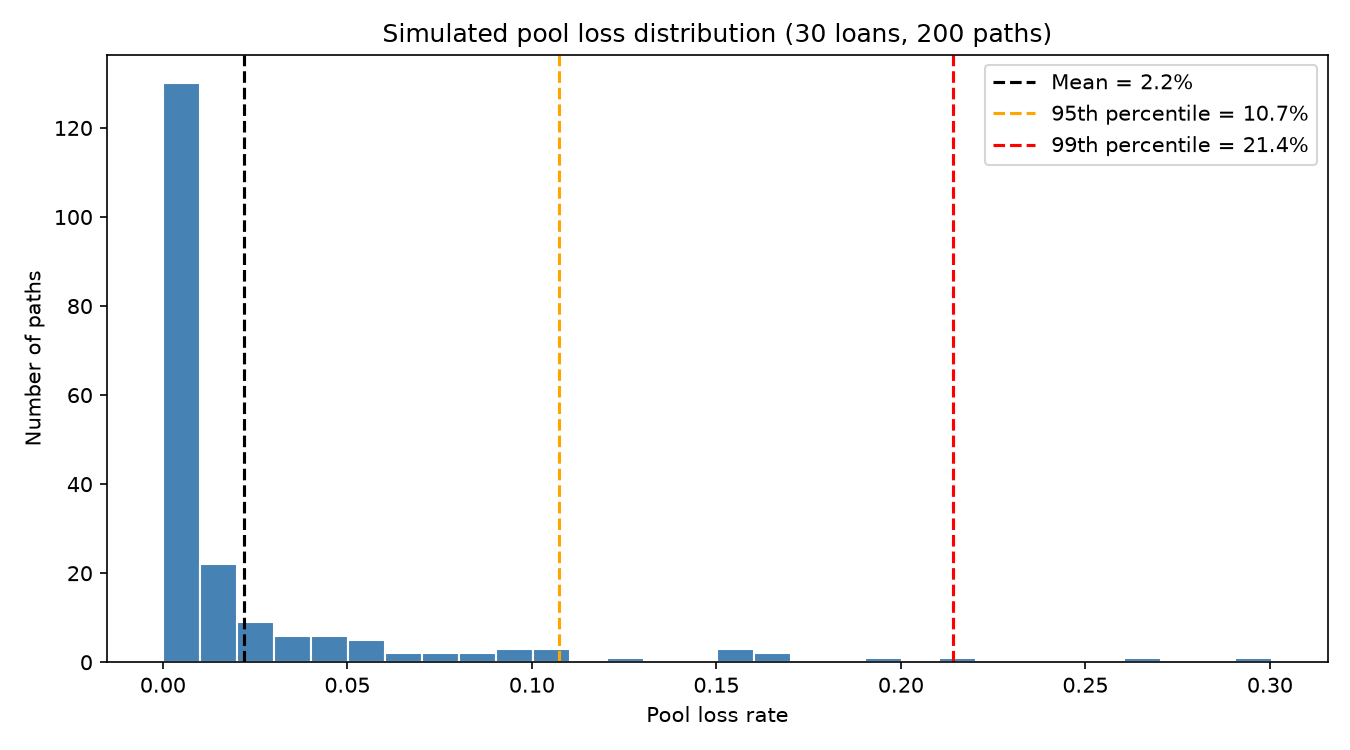
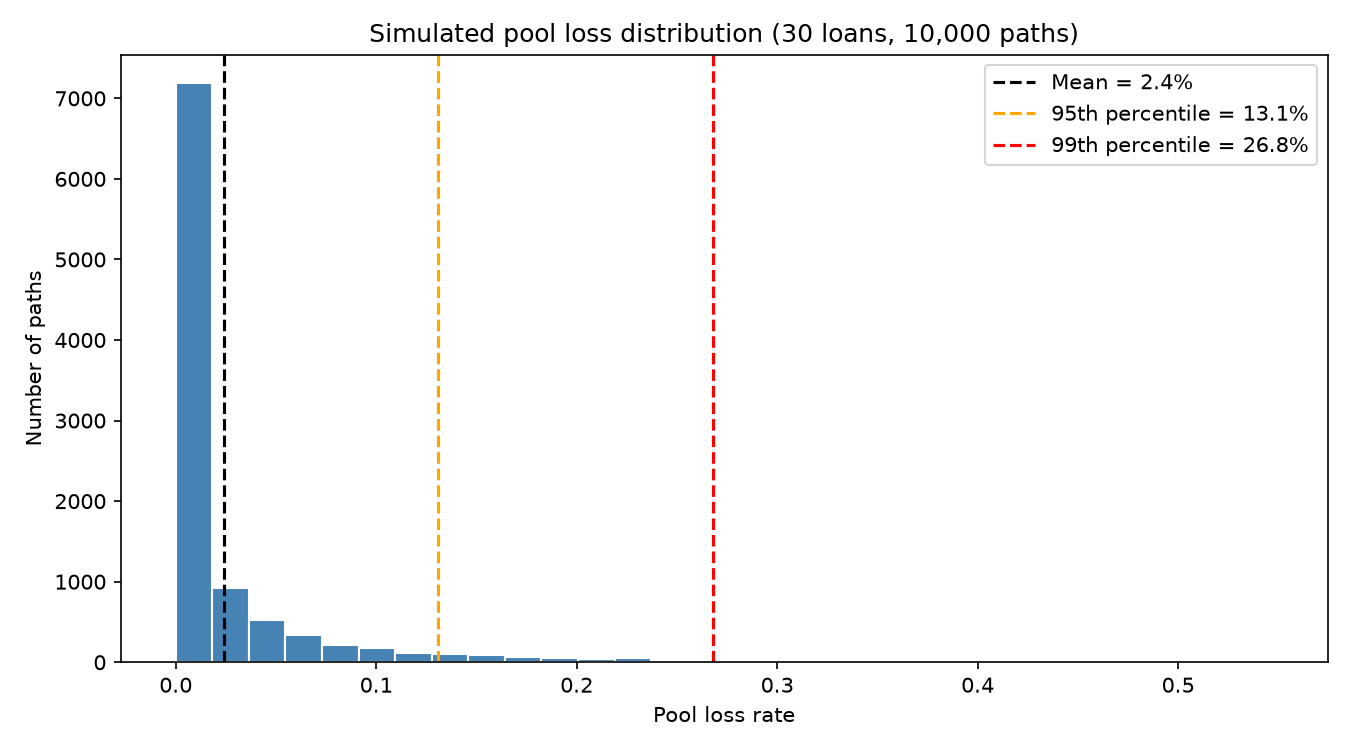
Vectorize pool simulation (10,000 paths) wiht loop-version regression test

diff --git a/pool_model.py b/pool_model.py
@@ -143,6 +143,243 @@ def run_pool_simulation(loan_tape, n_paths, refinance_assumptions, workout_assum
 
     return pd.DataFrame(path_results), pd.DataFrame(loan_results)
 
+# vectorized simulation
+# run_pool_simulation above loops over every path and every loan and is kept as the reference implementation
+# the functions below compute the same results with numpy arrays (one axis for paths, one for loans, one for months)
+
+# step 1 of the vectorized simulation: build every loan's mortgage schedule into arrays with one row per loan 
+# and one column per month (shape n_loans x term_months)
+
+def build_schedule_arrays(loan_tape):
+    n_loans = len(loan_tape)
+    term_months = int(loan_tape["Term Years"].max()) * 12
+
+    payment = np.zeros((n_loans, term_months))
+    beginning_balance = np.zeros((n_loans, term_months))
+    balloon = np.zeros(n_loans)
+
+    for i in range(n_loans):
+        loan = loan_tape.iloc[i]
+        schedule = create_loan_schedule(
+            loan_balance = loan["Loan Balance"],
+            annual_rate = loan["Annual Rate"],
+            term_years = int(loan["Term Years"]),
+            amortization_years = int(loan["Amortization Years"]),
+            io_months = int(loan["IO Months"])
+        )
+        # row i holds loan i's monthly payment and beginning balance for months 1 to term_months
+        payment[i, :] = schedule["Payment"].to_numpy()
+        beginning_balance[i, :] = schedule["Beginning Balance"].to_numpy()
+        # the balloon is the balance left after the final scheduled payment
+        balloon[i] = schedule.iloc[-1]["Balloon Payment"]
+
+    return payment, beginning_balance, balloon
+
+# step 2a: draw the shocks for every path at once (shape n_paths x (1 + n_loans))
+# column 0 is the systematic shock and columns 1 to n_loans are the idiosyncratic shocks
+# each row uses the same random numbers, in the same order, as one call to draw_shocks, so with the same seed
+# the shocks are identical to the loop version
+def draw_all_shocks(n_paths, betas, rng):
+    shocks = rng.standard_normal((n_paths, 1 + len(betas)))
+    systematic_shock = shocks[:, 0]
+    idiosyncratic_shock = shocks[:, 1:]
+    # systematic_shock[:, None] turns the shock into a column so it is applied to every loan on its path,
+    # and betas is applied to every path (composite has shape n_paths x n_loans)
+    composite = betas * systematic_shock[:, None] + np.sqrt(1 - betas**2) * idiosyncratic_shock
+    return systematic_shock, composite
+
+# step 2b: translate the shocks into stress for every path and loan at once, with the same rules as the loop version
+# noi_decline has shape n_paths x n_loans and cap_rate_shift has shape n_paths
+def calculate_stress(systematic_shock, composite, sigma_noi, cap_sensitivity, max_decline):
+    # a one-sigma bad draw is a sigma_noi decline, a good draw is no decline, and the decline is capped at max_decline
+    noi_decline = np.clip(sigma_noi * (-composite), 0.0, max_decline)
+    # cap rates only widen in a downturn (negative systematic shock)
+    cap_rate_shift = np.where(systematic_shock < 0, cap_sensitivity * (-systematic_shock), 0.0)
+    return noi_decline, cap_rate_shift
+
+# step 3: build the monthly NOI, cap rate and property value for every path, loan and month at once
+# (shape n_paths x n_loans x term_months), following the same rules as create_scenario_path with no NOI growth:
+# NOI is flat at base until shock_month, then declines geometrically to the trough over decline_months and stays flat,
+# and the cap rate jumps to the shocked cap rate after shock_month
+def build_value_arrays(loan_tape, noi_decline, cap_rate_shift, shock_month, decline_months):
+    term_months = int(loan_tape["Term Years"].max()) * 12
+    base_noi = (loan_tape["Loan Balance"] * loan_tape["Debt Yield"]).to_numpy()
+    base_cap_rate = loan_tape["Base Cap Rate"].to_numpy()
+
+    # months 1 to term_months, and how many months past the shock each month is (0 before the shock)
+    months = np.arange(1, term_months + 1)
+    months_since_shock = np.clip(months - shock_month, 0, None)
+    # share of the decline reached by each month: 0 before the shock, rising to 1 after decline_months and staying at 1
+    decline_progress = np.minimum(months_since_shock, decline_months) / decline_months
+
+    # NOI_t = base NOI * (1 - noi_decline) ** decline_progress_t, the closed form of the loop's month-by-month decline
+    # [:, :, None] adds the month axis to the (paths x loans) declines, [None, :, None] adds the path and month axes to the base NOI
+    noi = base_noi[None, :, None] * (1 - noi_decline[:, :, None]) ** decline_progress[None, None, :]
+
+    # cap rate is the base cap rate up to shock_month and base + shift after
+    after_shock = months > shock_month
+    cap_rate = base_cap_rate[None, :, None] + cap_rate_shift[:, None, None] * after_shock[None, None, :]
+
+    property_value = noi / cap_rate
+
+    return noi, cap_rate, property_value
+
+# step 4: find the term default for every path and loan at once, with the same double trigger as run_loan_scenario:
+# a loan defaults in the first month where DSCR < default_dscr and LTV > default_ltv (LTV on the beginning balance)
+# returns is_term_default (True/False), default_index (month index 0 to term_months - 1, only meaningful where is_term_default),
+# and the balance and property value at default (shape n_paths x n_loans for all four)
+def find_term_defaults(payment, beginning_balance, noi, property_value, default_dscr = 1.0, default_ltv = 0.95):
+    # payment and beginning_balance are (n_loans x term_months), so [None, :, :] adds the path axis
+    dscr = (noi / 12) / payment[None, :, :]
+    ltv = beginning_balance[None, :, :] / property_value
+
+    # True in every month where both triggers fail (shape n_paths x n_loans x term_months)
+    trigger = (dscr < default_dscr) & (ltv > default_ltv)
+
+    # a loan term defaults if the trigger is hit in any month
+    is_term_default = trigger.any(axis = 2)
+    # argmax returns the first index of the largest value along the month axis, and True (1) is larger than False (0),
+    # so it gives the first trigger month (it returns 0 when there is no trigger, which is why is_term_default is needed)
+    default_index = trigger.argmax(axis = 2)
+
+    # pick each path and loan's balance and value in its default month
+    n_paths, n_loans = default_index.shape
+    loan_index = np.arange(n_loans)
+    balance_at_default = beginning_balance[loan_index[None, :], default_index]
+    path_index = np.arange(n_paths)
+    value_at_default = property_value[path_index[:, None], loan_index[None, :], default_index]
+
+    return is_term_default, default_index, balance_at_default, value_at_default
+
+# step 5a: refinance test at maturity for every path and loan at once, same as run_refinance_test with amortizing sizing
+# balloon has shape n_loans, final_noi and final_cap_rate have shape n_paths x n_loans
+# returns True where the loan can refinance (shape n_paths x n_loans)
+def can_refinance_all(balloon, final_noi, final_cap_rate, refinance_rate, refinance_amortization_years, min_dscr, max_ltv, min_debt_yield):
+    # the annuity payment on 1 dollar times 12 gives the cost per dollar of loan amount each year
+    monthly_rate = refinance_rate / 12
+    n_months = refinance_amortization_years * 12
+    annual_constant = 12 * monthly_rate * (1 + monthly_rate)**n_months / ((1 + monthly_rate)**n_months - 1)
+
+    property_value = final_noi / final_cap_rate
+
+    # maximum proceeds a lender is willing to lend based on DSCR, LTV and DY constraints
+    dscr_limit = final_noi / (min_dscr * annual_constant)
+    ltv_limit = max_ltv * property_value
+    debt_yield_limit = final_noi / min_debt_yield
+    # the lender lends the smallest of the three limits, np.minimum takes the smaller value element by element
+    max_proceeds = np.minimum(np.minimum(dscr_limit, ltv_limit), debt_yield_limit)
+
+    # balloon[None, :] adds the path axis so each loan's balloon is compared on every path
+    return max_proceeds >= balloon[None, :]
+
+# step 5b: loss severity for every path and loan at once, same as calculate_loss_severity
+# balance_at_default and value_at_default have shape n_paths x n_loans, annual_rate has shape n_loans
+def calculate_loss_all(balance_at_default, value_at_default, annual_rate, months_to_resolution, liquidation_discount, liquidation_costs, special_servicing_fee):
+    sale_price = value_at_default * (1 - liquidation_discount)
+    net_recovery = sale_price * (1 - liquidation_costs)
+    accrued_interest = balance_at_default * annual_rate[None, :] / 12 * months_to_resolution
+    servicing_fees = balance_at_default * special_servicing_fee / 12 * months_to_resolution
+    total_exposure = balance_at_default + accrued_interest + servicing_fees
+    # np.maximum replaces max() so the floor at 0 is applied element by element
+    return np.maximum(total_exposure - net_recovery, 0.0)
+
+# step 5c: assign every path and loan its outcome and loss, following the same order as run_loan_scenario:
+# term default first, then the refinance test, then the maturity LTV gate on the balloon balance
+def assign_outcomes(loan_tape, balloon, noi, cap_rate, property_value, is_term_default, term_balance, term_value, refinance_assumptions, workout_assumptions, default_ltv = 0.95):
+    # the refinance test and maturity gate use the last month's NOI, cap rate and value (shape n_paths x n_loans)
+    final_noi = noi[:, :, -1]
+    final_cap_rate = cap_rate[:, :, -1]
+    final_value = property_value[:, :, -1]
+
+    can_refinance = can_refinance_all(balloon, final_noi, final_cap_rate, **refinance_assumptions)
+    # the borrower has no equity left at maturity if the balloon is more than default_ltv of the property value
+    no_equity = balloon[None, :] / final_value > default_ltv
+
+    # each outcome is True only where the earlier outcomes did not happen, so exactly one is True for every path and loan
+    is_performed = ~is_term_default & can_refinance
+    is_maturity_default = ~is_term_default & ~can_refinance & no_equity
+    is_cured = ~is_term_default & ~can_refinance & ~no_equity
+
+    # outcome labels, filled in one outcome at a time
+    outcome = np.empty(is_term_default.shape, dtype = object)
+    outcome[is_term_default] = "Term Default"
+    outcome[is_performed] = "Performed"
+    outcome[is_maturity_default] = "Maturity Default"
+    outcome[is_cured] = "Refinance Shortfall, Cured"
+
+    # balance and value at default: the term default month's numbers for term defaults, the balloon and final value for maturity defaults
+    balance_at_default = np.where(is_term_default, term_balance, balloon[None, :])
+    value_at_default = np.where(is_term_default, term_value, final_value)
+
+    # calculate the loss for every path and loan, then keep it only where the loan defaulted
+    annual_rate = loan_tape["Annual Rate"].to_numpy()
+    loss_if_default = calculate_loss_all(balance_at_default, value_at_default, annual_rate, **workout_assumptions)
+    is_default = is_term_default | is_maturity_default
+    loss = np.where(is_default, loss_if_default, 0.0)
+
+    return outcome, loss
+
+# step 6: vectorized version of run_pool_simulation, same arguments and same two DataFrames returned
+def run_pool_simulation_vectorized(loan_tape, n_paths, refinance_assumptions, workout_assumptions, sigma_noi = 0.15, cap_sensitivity = 0.01, shock_month = 48, decline_months = 24, max_decline = 0.6, seed = 1, batch_size = 2000):
+    rng = np.random.default_rng(seed)
+    n_loans = len(loan_tape)
+    total_balance = loan_tape["Loan Balance"].sum()
+    betas = loan_tape["Beta"].to_numpy()
+    loan_ids = loan_tape["Loan ID"].to_numpy().astype(int)
+
+    # step 1: mortgage schedules for all loans, built once
+    payment, beginning_balance, balloon = build_schedule_arrays(loan_tape)
+
+    path_tables = []
+    loan_tables = []
+
+    for batch_start in range(0, n_paths, batch_size):
+        batch_end = min(batch_start + batch_size, n_paths)
+        n_batch = batch_end - batch_start
+
+        # step 2: shocks and stress for every path in the batch
+        systematic_shock, composite = draw_all_shocks(n_batch, betas, rng)
+        noi_decline, cap_rate_shift = calculate_stress(systematic_shock, composite, sigma_noi, cap_sensitivity, max_decline)
+
+        # step 3: monthly NOI, cap rate and property value
+        noi, cap_rate, property_value = build_value_arrays(loan_tape, noi_decline, cap_rate_shift, shock_month, decline_months)
+
+        # step 4: term defaults
+        is_term_default, default_index, term_balance, term_value = find_term_defaults(payment, beginning_balance, noi, property_value)
+
+        # step 5: outcome and loss for every path and loan
+        outcome, loss = assign_outcomes(loan_tape, balloon, noi, cap_rate, property_value, is_term_default, term_balance, term_value, refinance_assumptions, workout_assumptions)
+
+        # pool results for each path: sum the loan losses and count the defaults across the loan axis
+        path_numbers = np.arange(batch_start, batch_end)
+        pool_loss = loss.sum(axis = 1)
+        n_default = ((outcome == "Term Default") | (outcome == "Maturity Default")).sum(axis = 1)
+
+        path_table = {}
+        path_table["Path"] = path_numbers
+        path_table["Systematic Shock"] = systematic_shock
+        path_table["Pool Loss"] = pool_loss
+        path_table["Loss Rate"] = pool_loss / total_balance
+        path_table["Default Rate"] = n_default / n_loans
+        path_tables.append(pd.DataFrame(path_table))
+
+        # loan results: flatten the (paths x loans) arrays into one row per path and loan, in the same order as the loop
+        # np.repeat gives each path number once per loan, np.tile repeats the list of loan IDs once per path
+        loan_table = {}
+        loan_table["Path"] = np.repeat(path_numbers, n_loans)
+        loan_table["Loan ID"] = np.tile(loan_ids, n_batch)
+        loan_table["Systematic Shock"] = np.repeat(systematic_shock, n_loans)
+        loan_table["NOI Decline"] = noi_decline.ravel()
+        loan_table["Outcome"] = outcome.ravel()
+        loan_table["Loss"] = loss.ravel()
+        loan_tables.append(pd.DataFrame(loan_table))
+
+    path_results = pd.concat(path_tables, ignore_index = True)
+    loan_results = pd.concat(loan_tables, ignore_index = True)
+
+    return path_results, loan_results
+
+
 # closed-form Vasicek loss quantile at confidence alpha for an infinitely granular pool with default probability pd_ (trailing "_" to not be confused with pd as in pandas)
 def vasicek_loss_quantile(pd_, lgd, rho, alpha):
     return lgd * norm.cdf((norm.ppf(pd_) + np.sqrt(rho) * norm.ppf(alpha)) / np.sqrt(1 - rho))

diff --git a/main.py b/main.py
@@ -10,7 +10,7 @@ from loan_model import (
     run_loan_scenario
 )
 from validation import validate_loan_schedule
-from pool_model import create_sample_loan_tape, run_pool_simulation, vasicek_loss_quantile
+from pool_model import create_sample_loan_tape, run_pool_simulation_vectorized, vasicek_loss_quantile
 import pandas as pd
 import matplotlib.pyplot as plt
 
@@ -177,10 +177,12 @@ loan_tape = create_sample_loan_tape(n_loans=30, seed=0)
 print(loan_tape.head())
 print("Total Pool Balance:", loan_tape["Loan Balance"].sum())
 
-# base case: 200 simulated futures of the pool under the default model parameters
-path_results, loan_results = run_pool_simulation(
+n_paths = 10_000
+
+# base case: n_paths simulated futures of the pool under the default model parameters
+path_results, loan_results = run_pool_simulation_vectorized(
     loan_tape=loan_tape,
-    n_paths=200,
+    n_paths=n_paths,
     refinance_assumptions=refinance_assumptions,
     workout_assumptions=workout_assumptions
 )
@@ -194,16 +196,19 @@ print(loan_results["Outcome"].value_counts())
 
 # correlation sensitivity: same pool, same shocks, every loan's beta forced to one value
 # shows that correlation moves the tail of the loss distribution far more than the mean
+
 beta_rows = []
 for beta in [0.0, 0.3, 0.6, 0.9]:
     beta_tape = loan_tape.copy()
     beta_tape["Beta"] = beta
-    beta_paths, beta_loans = run_pool_simulation(
+    
+    beta_paths, beta_loans = run_pool_simulation_vectorized(
         loan_tape = beta_tape,
-        n_paths = 200,
+        n_paths = n_paths,
         refinance_assumptions = refinance_assumptions,
         workout_assumptions = workout_assumptions
     )
+
     beta_rows.append({
         "Beta": beta,
         "Mean Loss Rate": beta_paths["Loss Rate"].mean(),
@@ -220,14 +225,16 @@ balance_lookup = {}
 for i in range(len(loan_tape)):
     loan = loan_tape.iloc[i]
     balance_lookup[int(loan["Loan ID"])] = loan["Loan Balance"]
- 
+
+is_default = (loan_results["Outcome"] == "Term Default") | (loan_results["Outcome"] == "Maturity Default")
+defaulted_results = loan_results[is_default]
+
 defaulted_balance = 0.0
 defaulted_loss = 0.0
-for i in range(len(loan_results)):
-    row = loan_results.iloc[i]
-    if row["Outcome"] == "Term Default" or row["Outcome"] == "Maturity Default":
-        defaulted_balance += balance_lookup[int(row["Loan ID"])]
-        defaulted_loss += row["Loss"]
+for i in range(len(defaulted_results)):
+    row = defaulted_results.iloc[i]
+    defaulted_balance += balance_lookup[int(row["Loan ID"])]
+    defaulted_loss += row["Loss"]
  
 pool_pd = path_results["Default Rate"].mean()
 pool_lgd = defaulted_loss / defaulted_balance
@@ -243,9 +250,9 @@ print("Simulated 99th pct loss rate:", round(path_results["Loss Rate"].quantile(
 # note 0.15 is the base case
 sigma_rows = []
 for sigma_noi in [0.10, 0.15, 0.20]:
-    sigma_paths, sigma_loans = run_pool_simulation(
+    sigma_paths, sigma_loans = run_pool_simulation_vectorized(
         loan_tape = loan_tape,
-        n_paths = 200,
+        n_paths = n_paths,
         refinance_assumptions = refinance_assumptions,
         workout_assumptions = workout_assumptions,
         sigma_noi = sigma_noi
@@ -264,9 +271,9 @@ print(sigma_table.round(4).to_string(index = False))
 # note 0.01 is the base case
 cap_rows = []
 for cap_sensitivity in [0.0, 0.01, 0.02]:
-    cap_paths, cap_loans = run_pool_simulation(
+    cap_paths, cap_loans = run_pool_simulation_vectorized(
         loan_tape = loan_tape,
-        n_paths = 200,
+        n_paths = n_paths,
         refinance_assumptions = refinance_assumptions,
         workout_assumptions = workout_assumptions,
         cap_sensitivity = cap_sensitivity
@@ -294,7 +301,7 @@ plt.axvline(percentile_95_loss_rate, color = "orange", linestyle = "--", label =
 plt.axvline(percentile_99_loss_rate, color = "red", linestyle = "--", label = "99th percentile = {:.1%}".format(percentile_99_loss_rate))
 plt.xlabel("Pool loss rate")
 plt.ylabel("Number of paths")
-plt.title("Simulated pool loss distribution (30 loans, 200 paths)")
+plt.title("Simulated pool loss distribution (30 loans, {:,} paths)".format(n_paths))
 plt.legend()
 plt.tight_layout()
 plt.savefig("loss_distribution.png", dpi = 150)

diff --git a/test_pool_model.py b/test_pool_model.py
@@ -1,7 +1,7 @@
 import numpy as np
 import pandas as pd
 from scipy.stats import norm
-from pool_model import create_sample_loan_tape, draw_shocks, run_pool_simulation, vasicek_loss_quantile
+from pool_model import create_sample_loan_tape, draw_shocks, run_pool_simulation, run_pool_simulation_vectorized, vasicek_loss_quantile
 from loan_model import create_loan_schedule
 
 # tolerances: one cent on dollar amounts, floating-point noise on quantities that are the same calculation,
@@ -209,4 +209,35 @@ high_beta_paths, high_beta_loans = run_pool_simulation(
 )
 assert high_beta_paths["Loss Rate"].quantile(0.99) > low_beta_paths["Loss Rate"].quantile(0.99)
 
-print("All 12 tests passed")
+# vectorized regression test: with the same seed, run_pool_simulation_vectorized must reproduce the loop version
+# loan by loan (same path, loan, outcome and loss) and path by path (same loss rate and default rate).
+# batch_size = 70 splits the 200 paths into batches of 70, 70 and 60, so the test also checks that batching does not change the shocks
+regression_tape = create_sample_loan_tape(n_loans = 30, seed = 0)
+loop_paths, loop_loans = run_pool_simulation(
+    loan_tape = regression_tape,
+    n_paths = 200,
+    refinance_assumptions = refinance_assumptions,
+    workout_assumptions = workout_assumptions,
+    seed = 1
+)
+vectorized_paths, vectorized_loans = run_pool_simulation_vectorized(
+    loan_tape = regression_tape,
+    n_paths = 200,
+    refinance_assumptions = refinance_assumptions,
+    workout_assumptions = workout_assumptions,
+    seed = 1,
+    batch_size = 70
+)
+assert list(vectorized_paths.columns) == list(loop_paths.columns)
+assert list(vectorized_loans.columns) == list(loop_loans.columns)
+assert len(vectorized_loans) == len(loop_loans)
+for row in range(len(loop_loans)):
+    assert vectorized_loans.iloc[row]["Path"] == loop_loans.iloc[row]["Path"]
+    assert vectorized_loans.iloc[row]["Loan ID"] == loop_loans.iloc[row]["Loan ID"]
+    assert vectorized_loans.iloc[row]["Outcome"] == loop_loans.iloc[row]["Outcome"]
+    assert abs(vectorized_loans.iloc[row]["Loss"] - loop_loans.iloc[row]["Loss"]) < money_tolerance
+for row in range(len(loop_paths)):
+    assert abs(vectorized_paths.iloc[row]["Loss Rate"] - loop_paths.iloc[row]["Loss Rate"]) < float_tolerance
+    assert vectorized_paths.iloc[row]["Default Rate"] == loop_paths.iloc[row]["Default Rate"]
+
+print("All 13 tests passed")
